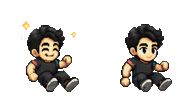
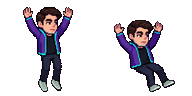
feat(art): novo character sheet do Artur (Higgsfield) frame-a-frame
Substitui a arte do Artur pelo sheet novo (fundo magenta 2048²): idle 4,
corrida 6, pulo 2, queda 2, danificado 1 + land 1 (frame de pouso dedicado,
antes era só squash procedural). Frames extraidos por componentes conectados
(OpenCV), color-bleed antes do downscale (sem halo) e ancorados na celula
96x96 do contrato. victory reusa as poses de queda (bracos erguidos); cast e
skid caem no fallback do engine (sem pose no sheet novo) -> ataque.png e
skid.png removidos. Testes de consistencia (meta/manifesto) atualizados.

diff --git a/src/data/charAnims.ts b/src/data/charAnims.ts
@@ -4,7 +4,15 @@
 // personagens ausentes daqui usam o fallback procedural/placeholder no game.
 import type { CharAnimSet } from '../engine/spriteAnim'
 
-/** Conjunto de animacoes do Artur, extraidas do sheet original dele (celula 96x96). */
+/**
+ * Conjunto de animacoes do Artur (celula 96x96). U-HF (2026-06-19): frames
+ * re-extraidos do NOVO character sheet do Artur (Higgsfield, fundo magenta) —
+ * idle 4 / corrida 6 / pulo 2 / queda 2 / danificado 1 / land 1. As poses de
+ * QUEDA (bracos erguidos) tambem servem de 'victory'. O sheet novo nao traz
+ * pose de ataque nem de freada, entao 'cast' e 'skid' caem no fallback do
+ * engine (cast->idle, skid->run) com o overlay procedural por cima — tudo
+ * sobre a arte NOVA, sem misturar com o sheet antigo.
+ */
 export const ARTUR_ANIMS: CharAnimSet = {
   cellW: 96,
   cellH: 96,
@@ -15,19 +23,16 @@ export const ARTUR_ANIMS: CharAnimSet = {
   drawH: 96,
   bodyHpx: 78,
   anims: {
-    idle: { key: 'char.artur.idle', frames: 3, fps: 6, loop: true },
-    walk: { key: 'char.artur.corrida', frames: 4, fps: 10, loop: true },
-    run: { key: 'char.artur.corrida', frames: 4, fps: 15, loop: true },
-    jump: { key: 'char.artur.pulo', frames: 3, fps: 12, loop: false },
-    fall: { key: 'char.artur.queda', frames: 4, fps: 12, loop: false },
-    hurt: { key: 'char.artur.danificado', frames: 3, fps: 8, loop: true },
-    // one-shot de habilidade (J); land fica no fallback procedural.
-    cast: { key: 'char.artur.ataque', frames: 4, fps: 12, loop: false },
-    // G3: poses extras extraidas do sheet original de apresentacao.
-    // victory = 2 poses de coleta (braco erguido / sentado), alterna em loop.
+    idle: { key: 'char.artur.idle', frames: 4, fps: 6, loop: true },
+    walk: { key: 'char.artur.corrida', frames: 6, fps: 10, loop: true },
+    run: { key: 'char.artur.corrida', frames: 6, fps: 15, loop: true },
+    jump: { key: 'char.artur.pulo', frames: 2, fps: 12, loop: false },
+    fall: { key: 'char.artur.queda', frames: 2, fps: 12, loop: false },
+    hurt: { key: 'char.artur.danificado', frames: 1, fps: 8, loop: true },
+    // U-HF: pouso ganhou frame dedicado (crouch) — one-shot de ~10f no engine.
+    land: { key: 'char.artur.land', frames: 1, fps: 15, loop: false },
+    // victory = poses de QUEDA (bracos erguidos), alterna em loop na tela de win.
     victory: { key: 'char.artur.vitoria', frames: 2, fps: 6, loop: true },
-    // skid = vista 3/4 frente (1 frame, segura enquanto durar o one-shot).
-    skid: { key: 'char.artur.skid', frames: 1, fps: 12, loop: false },
   },
 }
 

diff --git a/tests/unit/charAnimsMeta.test.ts b/tests/unit/charAnimsMeta.test.ts
@@ -59,15 +59,22 @@ describe('charAnims x meta.json (artur)', () => {
     }
   })
 
-  it('cast usa o sheet "ataque" (one-shot 12fps, sem loop) — contrato §2', () => {
-    const cast = ARTUR_ANIMS.anims.cast
-    expect(cast, 'estado cast ausente em ARTUR_ANIMS.anims').toBeDefined()
-    expect(sheetName(cast!.key)).toBe('ataque')
-    expect(cast!.fps).toBe(12)
-    expect(cast!.loop).toBe(false)
+  // U-HF (2026-06-19): o sheet novo do Artur nao traz pose de ataque nem de
+  // freada — 'cast' e 'skid' caem no fallback do engine (cast->idle, skid->run).
+  it('cast e skid NAO tem sheet dedicado (caem no fallback do engine)', () => {
+    expect(ARTUR_ANIMS.anims.cast).toBeUndefined()
+    expect(ARTUR_ANIMS.anims.skid).toBeUndefined()
   })
 
-  it('victory usa o sheet "vitoria" (2f, fps 6, loop) — G3', () => {
+  it('land usa o sheet "land" (1f, sem loop) — U-HF', () => {
+    const l = ARTUR_ANIMS.anims.land
+    expect(l, 'estado land ausente em ARTUR_ANIMS.anims').toBeDefined()
+    expect(sheetName(l!.key)).toBe('land')
+    expect(l!.frames).toBe(1)
+    expect(l!.loop).toBe(false)
+  })
+
+  it('victory usa o sheet "vitoria" (2f, fps 6, loop) — poses de queda', () => {
     const v = ARTUR_ANIMS.anims.victory
     expect(v, 'estado victory ausente em ARTUR_ANIMS.anims').toBeDefined()
     expect(sheetName(v!.key)).toBe('vitoria')
@@ -75,15 +82,6 @@ describe('charAnims x meta.json (artur)', () => {
     expect(v!.fps).toBe(6)
     // 2 frames -> loop true (contrato G3: loop so se 2f)
     expect(v!.loop).toBe(true)
-  })
-
-  it('skid usa o sheet "skid" (1f, fps 12, sem loop) — G3', () => {
-    const s = ARTUR_ANIMS.anims.skid
-    expect(s, 'estado skid ausente em ARTUR_ANIMS.anims').toBeDefined()
-    expect(sheetName(s!.key)).toBe('skid')
-    expect(s!.frames).toBe(1)
-    expect(s!.fps).toBe(12)
-    expect(s!.loop).toBe(false)
   })
 
   it('escala inteira (contrato §1): drawH = cellH (1x) e corpo ~78px declarado', () => {

diff --git a/tests/unit/assetsManifest.test.ts b/tests/unit/assetsManifest.test.ts
@@ -22,9 +22,9 @@ describe('ASSET_MANIFEST', () => {
         'char.artur.pulo',
         'char.artur.queda',
         'char.artur.danificado',
-        'char.artur.ataque',
+        // U-HF: land dedicado; ataque/skid sairam (sem pose no sheet novo)
+        'char.artur.land',
         'char.artur.vitoria',
-        'char.artur.skid',
         'tiles.terra',
         'tiles.tijolo',
         'obj.moeda',
@@ -53,15 +53,12 @@ describe('ASSET_MANIFEST', () => {
     expect(ASSET_MANIFEST['char.artur.corrida'].url).toBe(
       '/assets/chars/artur/corrida.png',
     )
-    expect(ASSET_MANIFEST['char.artur.ataque'].url).toBe(
-      '/assets/chars/artur/ataque.png',
+    // U-HF: land dedicado; victory = poses de queda (bracos erguidos)
+    expect(ASSET_MANIFEST['char.artur.land'].url).toBe(
+      '/assets/chars/artur/land.png',
     )
-    // G3: poses extras extraidas do sheet original (vitoria/skid)
     expect(ASSET_MANIFEST['char.artur.vitoria'].url).toBe(
       '/assets/chars/artur/vitoria.png',
-    )
-    expect(ASSET_MANIFEST['char.artur.skid'].url).toBe(
-      '/assets/chars/artur/skid.png',
     )
     expect(ASSET_MANIFEST['tiles.terra'].url).toBe('/assets/tiles/terra.png')
     expect(ASSET_MANIFEST['tiles.tijolo'].url).toBe('/assets/tiles/tijolo.png')
@@ -103,10 +100,9 @@ describe('ASSET_MANIFEST', () => {
       'char.artur.pulo',
       'char.artur.queda',
       'char.artur.danificado',
-      'char.artur.ataque',
-      // G3: poses extras tambem ja vem com alpha
+      // U-HF: land + victory (poses de queda) ja vem com alpha
+      'char.artur.land',
       'char.artur.vitoria',
-      'char.artur.skid',
       // C2: atlases de tiles tambem ja vem com alpha
       'tiles.terra',
       'tiles.tijolo',

diff --git a/src/data/assets.ts b/src/data/assets.ts
@@ -18,10 +18,9 @@ export const ASSET_MANIFEST: Record<string, AssetEntry> = {
   'char.artur.pulo': { url: '/assets/chars/artur/pulo.png' },
   'char.artur.queda': { url: '/assets/chars/artur/queda.png' },
   'char.artur.danificado': { url: '/assets/chars/artur/danificado.png' },
-  'char.artur.ataque': { url: '/assets/chars/artur/ataque.png' },
-  // G3: poses extras do sheet original (vitoria = coleta/comemoracao; skid = vista 3/4).
+  // U-HF: pouso dedicado (crouch) do sheet novo. victory = poses de queda.
+  'char.artur.land': { url: '/assets/chars/artur/land.png' },
   'char.artur.vitoria': { url: '/assets/chars/artur/vitoria.png' },
-  'char.artur.skid': { url: '/assets/chars/artur/skid.png' },
   'bg.sky': { url: '/assets/bg/sky.png' },
   'bg.cosmic': { url: '/assets/bg/cosmic.png' },
   // U1: arte curada (Higgsfield) — title screen + camada mid do parallax.
